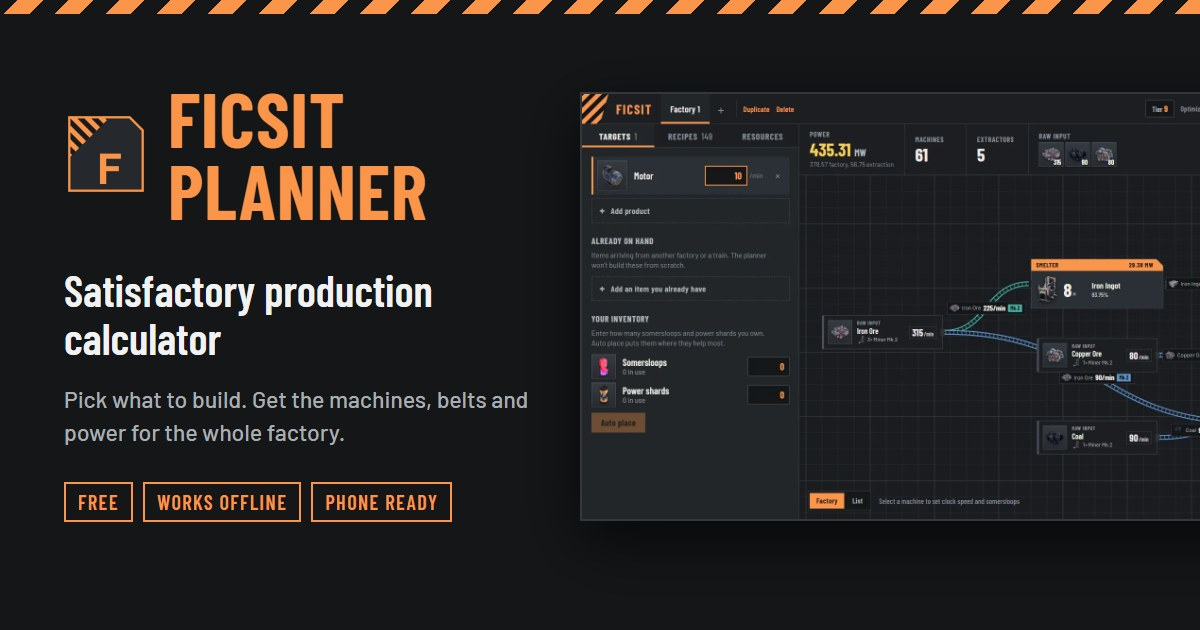
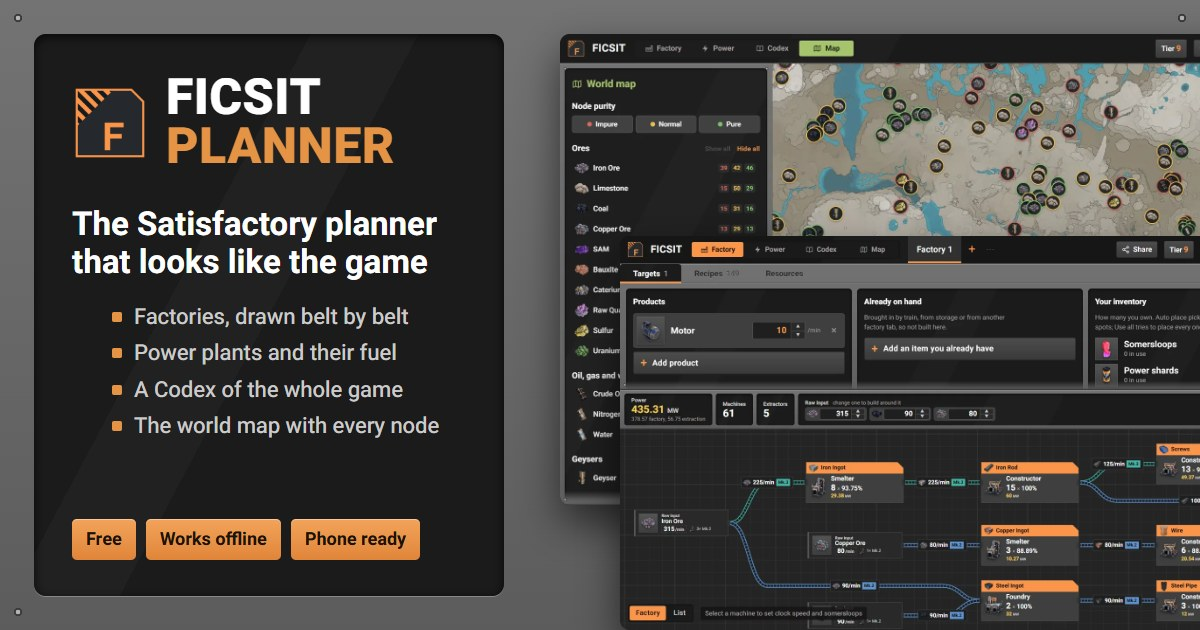
New link preview card in the game's look, and the world map in the page description

diff --git a/index.html b/index.html
@@ -6,7 +6,7 @@
     <title>FICSIT Planner: Satisfactory production calculator</title>
     <meta
       name="description"
-      content="Free Satisfactory production calculator and factory planner. Pick what to build and get the machines, alternate recipes, belts and power. Plan power plants, and look anything up in the game Codex. Works offline and on phones."
+      content="Free Satisfactory production calculator and factory planner. Pick what to build and get the machines, alternate recipes, belts and power. Plan power plants, look anything up in the game Codex, and find every resource node on the world map. Works offline and on phones."
     />
     <link rel="canonical" href="%SITE_URL%/" />
     <meta name="robots" content="index, follow, max-image-preview:large" />
@@ -21,21 +21,21 @@
     <meta property="og:title" content="FICSIT Planner: Satisfactory production calculator" />
     <meta
       property="og:description"
-      content="Pick what to build. Get the machines, belts and power for the whole factory, plan the power plants that run it, and look up anything in the game. Free, works offline, runs on phones."
+      content="Pick what to build. Get the machines, belts and power for the whole factory, plan the power plants that run it, look up anything in the game and find every resource node on the map. Free, works offline, runs on phones."
     />
     <meta property="og:image" content="%SITE_URL%/og-image.jpg" />
     <meta property="og:image:type" content="image/jpeg" />
     <meta property="og:image:width" content="1200" />
     <meta property="og:image:height" content="630" />
-    <meta property="og:image:alt" content="FICSIT Planner showing a factory graph for 10 motors per minute" />
+    <meta property="og:image:alt" content="FICSIT Planner: a factory graph for 10 motors a minute in front of the world map with every resource node" />
     <meta name="twitter:card" content="summary_large_image" />
     <meta name="twitter:title" content="FICSIT Planner: Satisfactory production calculator" />
     <meta
       name="twitter:description"
-      content="Pick what to build. Get the machines, belts and power for the whole factory, plan the power plants that run it, and look up anything in the game. Free, works offline, runs on phones."
+      content="Pick what to build. Get the machines, belts and power for the whole factory, plan the power plants that run it, look up anything in the game and find every resource node on the map. Free, works offline, runs on phones."
     />
     <meta name="twitter:image" content="%SITE_URL%/og-image.jpg" />
-    <meta name="twitter:image:alt" content="FICSIT Planner showing a factory graph for 10 motors per minute" />
+    <meta name="twitter:image:alt" content="FICSIT Planner: a factory graph for 10 motors a minute in front of the world map with every resource node" />
 
     <meta name="mobile-web-app-capable" content="yes" />
     <meta name="apple-mobile-web-app-capable" content="yes" />
